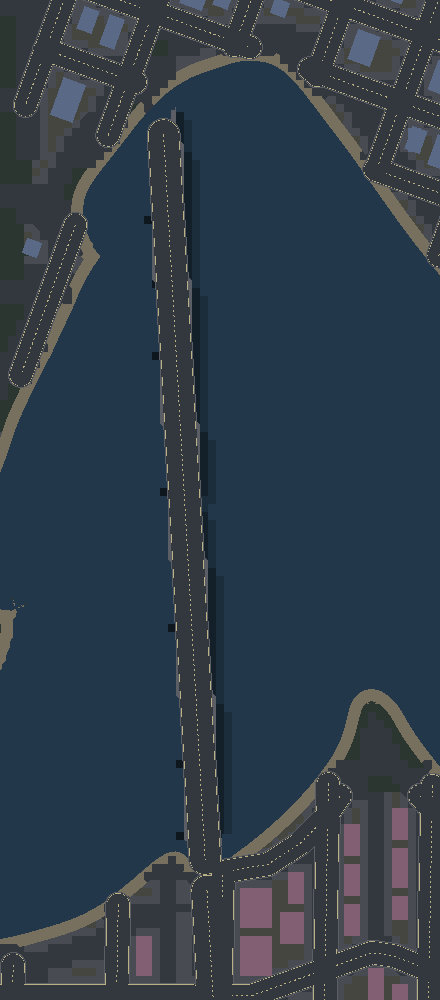
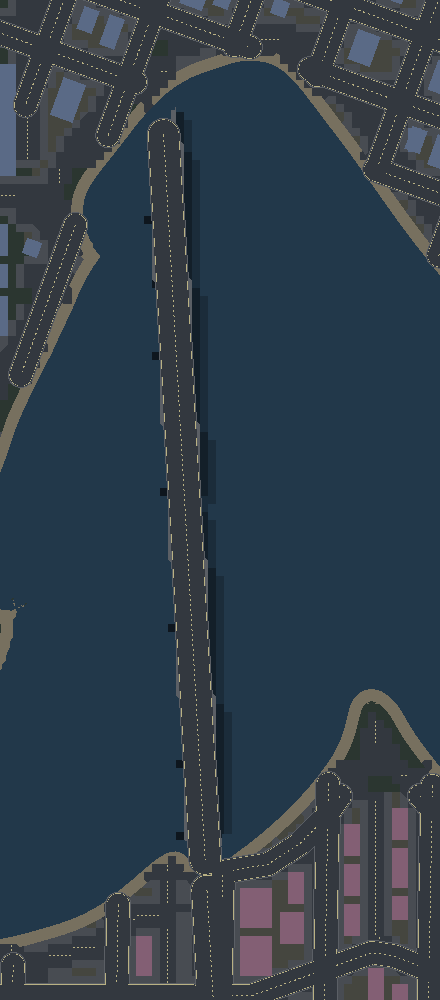
mapgen: draw the lane paint the game draws
"But roads still seem to be broken." They were not. mapgen painted markings
only for authored COURSES, and §26 measures course coverage at 76% of the
carriageway, so a quarter of the lattice — most of downtown's grid, where the
avenues are courses and the streets are not — rendered as flat asphalt with
no centre line and no kerb paint. The game has never looked like that:
tiles.ts paints an uncovered road tile from the shared rule in marks.ts, and
a flyover of the same block has dashed centre lines, zebras and kerbs on
every street.

The tool now mirrors the client, in the client's order: per-tile lane paint
from the same laneCentreInTile — run measured across the direction of travel,
dashes on the tile holding its middle, junctions left bare, nothing wider
than a carriageway — then the course ribbons over the top, which is the
precedence courseCover gives them in tiles.ts.

This is worth more than a cosmetic fix, because it means every top-down PNG
in REVIEW-MAPDESIGN.md was drawn by an instrument that under-drew its own
subject, and one of the two outside reviewers judged downtown to have "one
avenue with a centre line and no other hierarchy" from a picture where no
other street was permitted one. The measurements in that review stand — block
sizes, road and building shares, crossings and detours all came from tile
data. The judgements made by eye about hierarchy did not.

All seven mapdesign renders retaken; §49 and a warning at the head of the
[…]

Changed region(s): [[0.0, 0.031, 0.0886, 0.372]]

diff --git a/server/src/tools/mapRender.ts b/server/src/tools/mapRender.ts
@@ -1,4 +1,4 @@
-import { laneOffset, type Lanes } from 'shared';
+import { laneOffset, laneCentreInTile, type Lanes } from 'shared';
 import { readFileSync } from 'node:fs';
 import {
   DISTRICT_TYPES,
@@ -575,6 +575,70 @@ export function render(
     }
   }
 
+
+  // The lane paint on ordinary streets, BEFORE the curve layer.
+  //
+  // This tool drew markings for authored courses and nothing else, so every
+  // stretch of carriageway a course does not cover — most of the lattice, and
+  // §26 measures course coverage at 76% — came out as bare tarmac. The city
+  // was fine; the instrument was lying, and it lied for the whole of
+  // `REVIEW-MAPDESIGN.md`: downtown was called "one avenue with a centre line
+  // and no other hierarchy" from a picture in which no other street was
+  // ALLOWED a centre line. A review tool that under-draws the thing under
+  // review is worse than no tool.
+  //
+  // The rule is `tiles.ts`'s, via the same `laneCentreInTile` both renderers
+  // share: measure the road's run across the direction of travel, and the
+  // tile holding the middle of that run carries the dashes. Junctions — where
+  // both runs are long — stay bare asphalt, as they do in the game. Drawn
+  // first so a course ribbon paints over it where one exists, which is the
+  // same precedence `courseCover` gives it in the client.
+  {
+    // `tiles.ts` calls this RUN_ROAD: shorter than eight tiles in a direction
+    // and the run is a junction mouth or a stub, not a street going anywhere.
+    const RUN_ROAD = 8;
+    const mark = hexToRgb(palette.roadLane);
+    const isRoad = (tx: number, ty: number): boolean =>
+      tx >= 0 && ty >= 0 && tx < map.widthTiles && ty < map.heightTiles
+        ? map.tiles[ty * map.widthTiles + tx] === T_ROAD
+        : false;
+    const runFrom = (tx: number, ty: number, dx: number, dy: number): [number, number] => {
+      let back = 0;
+      while (isRoad(tx - dx * (back + 1), ty - dy * (back + 1))) back++;
+      let fwd = 0;
+      while (isRoad(tx + dx * (fwd + 1), ty + dy * (fwd + 1))) fwd++;
+      return [back + fwd + 1, back];
+    };
+    for (let ty = 0; ty < hTiles; ty++) {
+      const my = y0 + ty;
+      if (my < 0 || my >= map.heightTiles) continue;
+      for (let tx = 0; tx < wTiles; tx++) {
+        const mx = x0 + tx;
+        if (mx < 0 || mx >= map.widthTiles || !isRoad(mx, my)) continue;
+        const [hLen, idxH] = runFrom(mx, my, 1, 0);
+        const [vLen, idxV] = runFrom(mx, my, 0, 1);
+        const horizontal = hLen >= RUN_ROAD;
+        const vertical = vLen >= RUN_ROAD;
+        if (horizontal === vertical) continue; // a junction, or too short to say
+        const width = horizontal ? vLen : hLen;
+        const index = horizontal ? idxV : idxH;
+        if (width > 4) continue; // wider than a carriageway: a diagonal band's stair
+        const centre = laneCentreInTile(width, index);
+        if (centre === null) continue;
+        // Two dashes a tile, on for the middle half of each period, which is
+        // the cadence `paintLaneMarks` draws and the 3D shader recomputes.
+        const at = Math.min(scale - 1, Math.max(0, Math.round(centre * scale) - 1));
+        for (let d = 0; d < 2; d++) {
+          const off = d * (scale / 2) + scale / 8;
+          const len = Math.max(1, Math.round(scale / 4));
+          for (let k = 0; k < len; k++) {
+            if (horizontal) put(tx * scale + Math.round(off) + k, ty * scale + at, mark);
+            else put(tx * scale + at, ty * scale + Math.round(off) + k, mark);
+          }
+        }
+      }
+    }
+  }
 
   // The roads, drawn as the CURVES they are (§16) rather than as the tiles
   // they were rasterised into — in the client's own paint order, because the

diff --git a/WORLDGEN.md b/WORLDGEN.md
@@ -5206,3 +5206,39 @@ country police. The post was reverted rather than shipped somewhere useless.
 Closing it wants a country variant of the police recipe, at which point the
 plan can put a post on the flats where it is needed. That is a worldgen change
 and it is owed, not a placement problem.
+
+---
+
+## 49. The review tool was under-drawing the city
+
+"But roads still seem to be broken." They were not; the instrument was.
+
+`mapgen` renders the roads as the curves they are (§16) — casing, fill, edge
+lines, centre dash, course by course, in the client's own paint order. What it
+never did was paint anything on carriageway that **no course covers**, and §26
+measures course coverage at 76% of the tarmac. So on every review render in
+this repo, three quarters of the street lattice carried its markings and the
+rest was flat asphalt: no centre line, no lane paint, nothing. Downtown's grid
+in particular, where the authored avenues are courses and every other street is
+lattice.
+
+The game has never looked like that. `tiles.ts` paints a tile under a course
+from the ribbon and every other road tile from the shared rule in `marks.ts` —
+measure the run across the direction of travel, dash the tile holding its
+middle, leave junctions bare. A flyover of the same block shows dashed centre
+lines, zebras, kerbs and manholes on every street.
+
+So the tool now does what the client does, in the same order: per-tile lane
+paint first, from the same `laneCentreInTile`, then the course ribbons over the
+top, which is the precedence `courseCover` gives them in the client.
+
+**What this cost, stated plainly.** Every top-down PNG in `REVIEW-MAPDESIGN.md`
+was drawn by the faulty tool, and one of the two independent reviewers called
+downtown "one avenue with a centre line and no other hierarchy" — from a
+picture in which no other street was allowed a centre line. The measurements in
+that review are unaffected: block sizes, road and building shares, crossing
+counts and detours were all taken from tile data. The judgements made by eye
+about *hierarchy* were not, and they were made against a lie.
+
+A tool that reviews the city has to draw the city. All seven `mapdesign-*`
+renders are retaken.

diff --git a/REVIEW-MAPDESIGN.md b/REVIEW-MAPDESIGN.md
@@ -11,6 +11,16 @@ on the map (territory, spawns, amenities) know what the map looks like.
 Everything below is measured off `generateCity(1)` — the shipped bake plus
 the session's amenity passes — and every claim names the file it comes from.
 
+> **A warning about the pictures, added after the fact.** Every render in this
+> review was taken with `pnpm mapgen`, and until `WORLDGEN.md` §49 that tool
+> drew lane markings **only for authored courses** — so most of the street
+> lattice appeared as bare tarmac with no centre line and no kerb paint. The
+> city was never like that; the game's painter marks every road tile. Judgements
+> here that rest on *measurement* stand. Judgements that rest on how a render
+> *looked* — anything about hierarchy, or a district reading as undifferentiated
+> — were made from a picture that under-drew its own subject. The renders have
+> been retaken.
+
 **The pictures.**
 
 | File | What it is | Retake |
